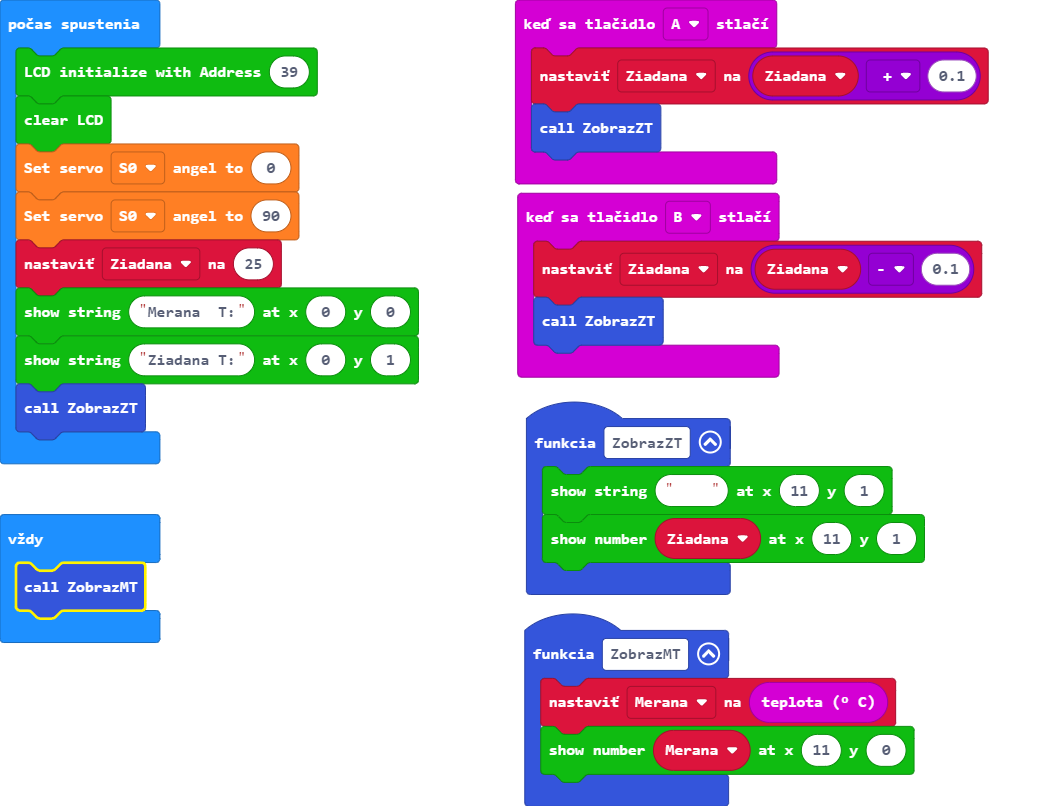
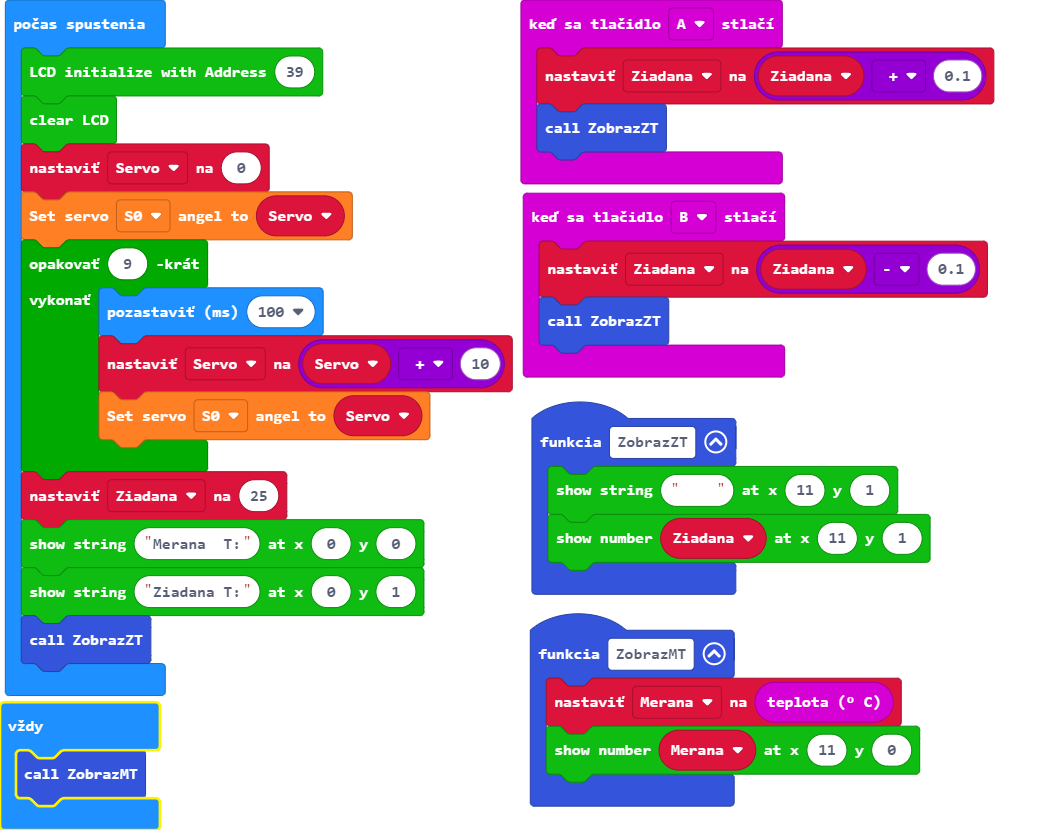
Update main.blocks, main.ts

diff --git a/main.ts b/main.ts
@@ -18,8 +18,13 @@ let Merana = 0
 let Ziadana = 0
 I2C_LCD1602.LcdInit(39)
 I2C_LCD1602.clear()
-wuKong.setServoAngel(wuKong.ServoList.S0, 0)
-wuKong.setServoAngel(wuKong.ServoList.S0, 90)
+let Servo = 0
+wuKong.setServoAngel(wuKong.ServoList.S0, Servo)
+for (let index = 0; index < 9; index++) {
+    basic.pause(100)
+    Servo = Servo + 10
+    wuKong.setServoAngel(wuKong.ServoList.S0, Servo)
+}
 Ziadana = 25
 I2C_LCD1602.ShowString("Merana  T:", 0, 0)
 I2C_LCD1602.ShowString("Ziadana T:", 0, 1)
